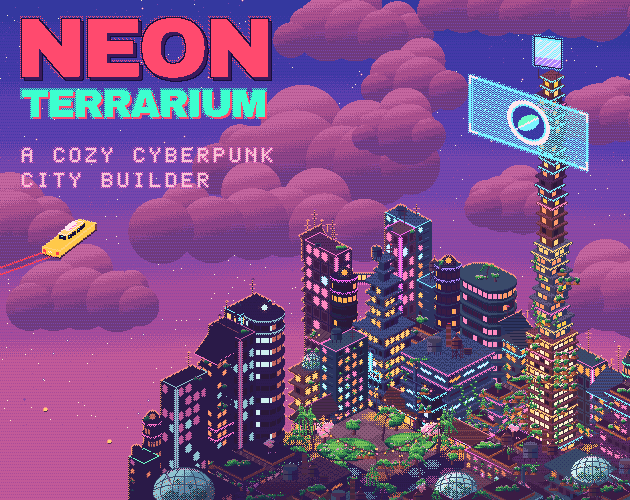
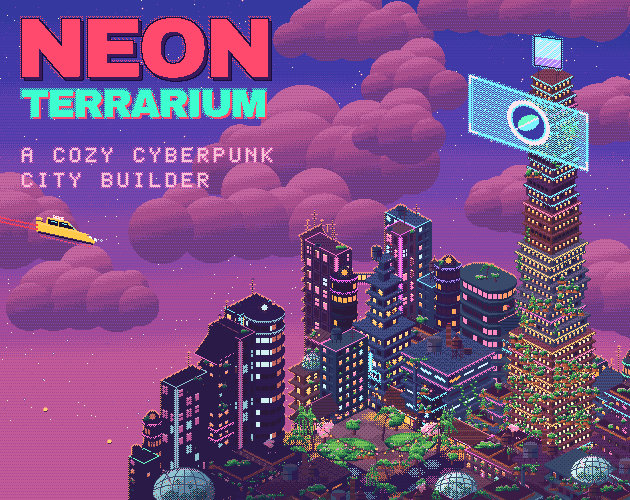
Cover art: chunky hero tower, crisp window panes, taxi diving into the city
Claude-Session: https://claude.ai/code/session_01F4MPX99podf2NwUC3T9owt

diff --git a/cover-art/cover.px.js b/cover-art/cover.px.js
@@ -21,6 +21,8 @@ const PAL = {
   T: "#a85a5a", U: "#7a3e48", m: "#4a2a50",
   // warm dusky stone for plazas and paths: lit, mid, shade
   "*": "#8a5a78", "(": "#64405c", ")": "#3e2840",
+  // window pane highlights: warm cream, cool pale cyan; headlights
+  ":": "#ffe6b0", ";": "#c8f4ff", "<": "#e8fbff",
   // glass: pale cyan-white lit, mid, shade, frame, pink sky reflection
   "$": "#cfeff0", "-": "#8fc4d0", "+": "#5a8aa8", "=": "#3a4a6a", "[": "#e8a0c8",
   // homes at dusk: peach, honey, soft pink, cool white-blue, shop gold; unlit deep plum
@@ -179,7 +181,7 @@ const nearestKey = (r, g, b) => {
 const levelFor = (yBase) => (yBase >= 400 ? 0 : Math.round(20 * (0.15 + 0.1 * clamp((400 - yBase) / 80, 0, 1))))
 const darkFor = (cx, yBase) => Math.round(clamp((380 - cx) / 170, 0, 1) * clamp((yBase - 350) / 100, 0, 1) * 0.55 * 20)
 const tintCache = new Map()
-const LIGHTKEYS = new Set("yhzvYnHMVNL$7-[+=")
+const LIGHTKEYS = new Set("yhzvYnHMVNL$7-[+=:;<")
 const tintKey = (k, hz, dk, wm) => {
   if (LIGHTKEYS.has(k)) { hz = Math.round(hz * 0.3); dk = Math.round(dk * 0.4); wm = 0 }
   if (!hz && !dk && !wm) return k
@@ -214,7 +216,7 @@ const WALLDIM = new Set("RruPpqSstKklDEe%^&fijTUm")
 const FK = (x, y, k) => { const i = y * W + x; const kk = tintKey(k, DEPTH[i], Math.min(20, DARK[i] + (WALLDIM.has(k) ? DIMW : 0)), WARM[i]); return CITY[i] ? grounded(x, y, kk) : kk }
 
 // ---------------------------------------------------------------- glow
-const EMIT = new Set("yhzvYVNHMnL$-")
+const EMIT = new Set("yhzvYVNHMnL$-:;<")
 const glowAround = (pts, k, reach = 2, sink) => {
   const set = new Set(pts.map(([x, y]) => x + y * W))
   for (const [x, y] of pts) for (let dy = -reach; dy <= reach; dy++) for (let dx = -reach; dx <= reach; dx++) {
@@ -281,7 +283,7 @@ const FAMS = {
 const FAMMAIN = ["rose", "plum", "peach", "terra", "rose", "plum", "terra", "peach", "mauve"]
 const ACCENTS = ["H", "H", "H", "H", "M", "M", "n", "n", "n", "V", "N"]
 const WCOLS = ["L", "L", "h", "h", "y", "y", "z", "z", "v", "v"]      // six in ten warm
-const WALLSET = new Set("RruPpqSstKklDEeTUmfijAB")
+const WALLSET = new Set("RruPpqSstKklDEeTUmfijAB%^&")
 const HALO = { L: "y", h: "L", y: "y", z: "H", v: "n", Y: "L" }
 const HALO2 = { L: "T", h: "T", y: "T", z: "R", v: "K", Y: "T" }
 const HALO3 = { L: "U", h: "U", y: "U", z: "r", v: "k", Y: "U" }
@@ -592,10 +594,23 @@ const addWallSign = (side, m, kind, u0, r0, col, id, seed, wk) => {
 }
 
 // ---------------------------------------------------------------- windows with a soft halo
+// one window pane, (cu, cr) counted from its top-left corner: a dark recess on the top and left, a lighter top row of glass,
+// sometimes a dark mullion, a curtain, a plant pot or a faint reflection; v is a hash that picks the variety
+const paneAt = (cu, cr, pw, wh, on, lit, v) => {
+  if (cu === 0 || cr === 0) return "A"
+  const pot = v >= 0.28 && v < 0.36
+  if (pot && cu === 1 && cr === wh - 1) return "!"
+  if (pot && cu === 1 && cr === wh - 2) return "o"
+  if (!lit) return v < 0.12 && cu === pw - 2 && cr === 2 ? "l" : "w"
+  const big = wh >= 6
+  if (big && ((v >= 0.5 && v < 0.75 && cr === (wh + 1) >> 1) || (v >= 0.75 && (cr === (wh + 1) >> 1 || cu === (pw + 1) >> 1)))) return "A"
+  if (v >= 0.12 && v < 0.24 && cu <= pw >> 1 && cr > 1) return "@"
+  return cr === 1 ? (on === "v" || on === "n" ? ";" : ":") : on
+}
 let curWins = []
 const haloPass = () => {
   for (const rec of curWins) {
-    if (!rec.halo) continue
+    if (!rec.halo || !rec.pts.length || (rec.pts[0][0] * 7 + rec.pts[0][1] * 13) % 3) continue
     const hk = HALO[rec.on] || "T"
     const P = new Set(rec.pts.map((p) => p[0] + p[1] * W))
     const seen = new Set()
@@ -607,25 +622,7 @@ const haloPass = () => {
       if (!WALLSET.has(get(nx, ny)) || ((nx + ny) & 1)) continue
       ring.push([nx, ny, hk, get(nx, ny)])
     }
-    // a second and a third, fainter ring further out
-    const R1 = new Set(ring.map((q) => q[0] + q[1] * W))
-    const hk2 = HALO2[rec.on] || "U", hk3 = HALO3[rec.on] || "m", ring2 = [], ring3 = []
-    const R2 = new Set()
-    for (const q of ring) for (const [dx, dy] of [[1, 0], [-1, 0], [0, 1], [0, -1], [1, 1], [-1, -1], [1, -1], [-1, 1]]) {
-      const nx = q[0] + dx, ny = q[1] + dy, ni = nx + ny * W
-      if (!inb(nx, ny) || P.has(ni) || R1.has(ni) || seen.has(ni)) continue
-      seen.add(ni); R2.add(ni)
-      if (!WALLSET.has(get(nx, ny)) || (nx & 1) || (ny & 1)) continue
-      ring2.push([nx, ny, hk2, get(nx, ny)])
-    }
-    for (const q of ring2) for (const [dx, dy] of [[2, 0], [-2, 0], [0, 2], [0, -2]]) {
-      const nx = q[0] + dx, ny = q[1] + dy, ni = nx + ny * W
-      if (!inb(nx, ny) || P.has(ni) || R1.has(ni) || seen.has(ni)) continue
-      seen.add(ni)
-      if (!WALLSET.has(get(nx, ny)) || ((nx + 2 * ny) % 5)) continue
-      ring3.push([nx, ny, hk3, get(nx, ny)])
-    }
-    for (const q of [...ring, ...ring2, ...ring3]) { rec.pts.push(q); if (rec.lit) put(q[0], q[1], q[2]) }
+    for (const q of ring) { rec.pts.push(q); if (rec.lit) put(q[0], q[1], q[2]) }
   }
   curWins = []
 }
@@ -654,7 +651,8 @@ function stack(o) {
       const base = side === "L" ? fam.L : fam.R
       if (o.groundWall && f === 0) { const k = o.groundWall(side, u, r, wW, h, x, y); if (k) return k }
       if (r === 0) return side === "L" ? fam.R : "A"                          // shadow under the plate above
-      if (r < wy0 || r >= wy0 + wh || u < 2) return base
+      const pane = wh >= 4 && pw <= 6
+      if (r < wy0 || r > wy0 + wh || (r === wy0 + wh && !pane) || u < 2) return base
       const rel = (u - 2) % per
       if (rel >= pw) return base
       const u0 = u - rel
@@ -667,10 +665,14 @@ function stack(o) {
         const lit = o.bright ? (fq < (o.litP ?? 0.85) && q < 0.92) : fq < 0.2 ? q < 0.1 : fq < 0.68 ? q < 0.94 : (col % 5 !== 4 && q < 0.55)      // dark floors, glowing bands, mixed floors
         const on = o.bright ? (o.glass === "white" ? (t < 0.3 ? "h" : "F") : t < 0.12 ? "Y" : t < 0.55 ? "h" : "y") : (t < 0.86 ? wcol : ["L", "h", "y", "v"][Math.floor(t * 40) % 4])
         rec = newWin(lit, on, !o.bright)
+        rec.v = ih(id * 17 + col, f * 5 + (side === "L" ? 3 : 4), 99)
         panes.set(pk, rec)
       }
-      rec.pts.push([x, y, rec.on, "w"])
-      return rec.lit ? rec.on : "w"
+      if (!pane) { rec.pts.push([x, y, rec.on, "w"]); return rec.lit ? rec.on : "w" }
+      if (r === wy0 + wh) return rec.lit ? (side === "L" ? fam.top : fam.L) : base      // a lighter sill under a lit window
+      const on = paneAt(rel, r - wy0, pw, wh, rec.on, true, rec.v), off = paneAt(rel, r - wy0, pw, wh, rec.on, false, rec.v)
+      if (on !== "A") rec.pts.push([x, y, on, off])
+      return rec.lit ? on : off
     }
     isoBox(A + ins, B + ins, Wd - 2 * ins, Dd - 2 * ins, hb, z, { L: mk("L"), R: mk("R") })
     const trimOn = o.trimAll ? (last ? true : ih(id, f, 9) < (o.trimP ?? 0.4)) : (o.trimB && f >= n - 2)
@@ -1185,7 +1187,7 @@ const drawBuilding = (bd) => {
     for (let k = 0; k < 3; k++) {
       const tw = Math.min(0.4 * k, (w - 0.7) / 2), td = Math.min(0.4 * k, (d - 0.7) / 2)
       const ma = a0 + tw, mb = b0 + td, mw = w - 2 * tw, md = d - 2 * td
-      st = stack({ a: ma, b: mb, w: mw, d: md, z0: z, n: ns[k], fh, fam, id: id * 3 + k, trims, pw: 3, pier: 2, wcol, trimB: trimB && k === 2, plantP: 0.5, vineP: 0.2, far })
+      st = stack({ a: ma, b: mb, w: mw, d: md, z0: z, n: ns[k], fh, fam, id: id * 3 + k, trims, pw: 4, pier: 2, wcol, trimB: trimB && k === 2, plantP: 0.5, vineP: 0.2, far })
       mods.push({ a: ma, b: mb, w: mw, d: md, z, h: ns[k] * fh, n: ns[k], fh })
       z = st.z
     }
@@ -1210,16 +1212,20 @@ const drawBuilding = (bd) => {
       if (r % fh === 0 && r > 0) return side === "L" ? lam.R : "l"
       if (u % 8 === 0) return side === "L" ? lam.R : "l"
       const col = Math.floor(u / 8), f = Math.floor(r / fh), rr = r % fh
-      if (u % 8 >= 2 && u % 8 <= 6 && rr >= 3 && rr <= 9 && u > 2 && u < wW - 3) {
+      if (u % 8 >= 2 && u % 8 <= 6 && rr >= 3 && rr <= 10 && u > 2 && u < wW - 3) {
         const pk = side + f + "_" + col
         let rec = panes.get(pk)
         if (!rec) {
           const q = ih(id * 131 + col, f * 7 + (side === "L" ? 1 : 2), 17), t = ih(id + col, f, 5)
           rec = newWin(ih(id, f, 3) < 0.28 ? q < 0.1 : ih(id, f, 3) < 0.6 ? q < 0.93 : (q < 0.5 && col % 4 !== 3), t < 0.86 ? wcol : "v", true)
+          rec.v = ih(id * 17 + col, f * 5 + (side === "L" ? 3 : 4), 99)
           panes.set(pk, rec)
         }
-        rec.pts.push([x, y, rec.on, "w"])
-        return rec.lit ? rec.on : "w"
+        const cu = u % 8 - 2, cr = rr - 3
+        if (cr === 8) return rec.lit ? lam.top : base
+        const on = paneAt(cu, cr, 5, 8, rec.on, true, rec.v), off = paneAt(cu, cr, 5, 8, rec.on, false, rec.v)
+        if (on !== "A") rec.pts.push([x, y, on, off])
+        return rec.lit ? on : off
       }
       const sheen = (1 - r / hh) * 0.55 + (side === "L" ? (1 - u / wW) * 0.25 : 0)
       return bay(x, y) < sheen * 0.7 ? (side === "L" ? lam.top : lam.L) : base
@@ -1340,16 +1346,18 @@ const drawBuilding = (bd) => {
       if (r === 0) return side === "L" ? fam.top : fam.L
       if (u < 2 || u >= wW - 3 || col < 0) return base
       if (fr === 0) return side === "L" ? fam.R : "A"
-      if (cu >= 1 && cu <= 3 && fr >= 2 && fr <= 5 && u < wW - 6) {
+      if (cu >= 0 && cu <= 3 && fr >= 1 && fr <= 5 && u < wW - 6) {
         const pk = side + f + "_" + col
         let rec = panes.get(pk)
         if (!rec) {
           const q = ih(id * 131 + col, f * 7 + (side === "L" ? 1 : 2), 17)
           rec = newWin(q < 0.8, GW[Math.floor(ih(id + col * 3, f, 5) * GW.length)], true)
+          rec.v = ih(id * 17 + col, f * 5 + (side === "L" ? 3 : 4), 99)
           panes.set(pk, rec)
         }
-        rec.pts.push([x, y, rec.on, "w"])
-        return rec.lit ? rec.on : "w"
+        const on = paneAt(cu, fr - 1, 4, 5, rec.on, true, rec.v), off = paneAt(cu, fr - 1, 4, 5, rec.on, false, rec.v)
+        if (on !== "A") rec.pts.push([x, y, on, off])
+        return rec.lit ? on : off
       }
       if (fr === 6 && cu <= 4) return fam.top
       return base
@@ -1380,7 +1388,7 @@ const drawBuilding = (bd) => {
     const { a: ma, b: mb, w: mw, d: md } = bd.fp
     const fh = 10, hh = 14 + (id % 4) * 3
     const n = Math.max(5, Math.round((H0 - hh) / fh))
-    const st = stack({ a: ma, b: mb, w: mw, d: md, n, fh, fam, id, trims, pw: 3, pier: 2, wcol, trimAll: true, trimP: 0.25, plantP: 0.35, vineP: 0.15, far, ins: 0.12 })
+    const st = stack({ a: ma, b: mb, w: mw, d: md, n, fh, fam, id, trims, pw: 4, pier: 2, wcol, trimAll: true, trimP: 0.25, plantP: 0.35, vineP: 0.15, far, ins: 0.12 })
     mods.push({ a: ma, b: mb, w: mw, d: md, z: 0, h: n * fh })
     const axis = id % 2 ? "a" : "b"
     slantRoof(ma, mb, mw, md, st.z, hh, fam, axis, accent)
@@ -1432,16 +1440,16 @@ const drawTower = () => {
   ISO = 8
   const F = FAMS
   // a stepped, wide base with plants
-  stack({ a: 90, b: 21, w: 4, d: 4, n: 3, fh: 8, plate: 2, ins: 0.22, fam: F.rose, id: 9901, bright: true, trimAll: true, trims: ["H", "n"], pw: 6, pier: 1, wh: 4, wy0: 1, litP: 0.8, plantP: 0.7 })
+  stack({ a: 88.75, b: 19.75, w: 6.5, d: 6.5, n: 3, fh: 8, plate: 2, ins: 0.22, fam: F.rose, id: 9901, bright: true, trimAll: true, trims: ["H", "n"], pw: 3, pier: 1, wh: 4, wy0: 1, litP: 0.8, plantP: 0.7 })
   // the white-lit body, windows in pale rows
-  stack({ a: 90.3, b: 21.3, w: 3.4, d: 3.4, z0: 24, n: 13, fh: 8, plate: 2, ins: 0.22, fam: F.terra, id: 9902, bright: true, trimAll: true, trims: ["h", "z"], pw: 4, pier: 1, wh: 4, wy0: 1, litP: 0.95, plantP: 0.55, glass: "white" })
+  stack({ a: 89.25, b: 20.25, w: 5.5, d: 5.5, z0: 24, n: 13, fh: 8, plate: 2, ins: 0.22, fam: F.terra, id: 9902, bright: true, trimAll: true, trims: ["h", "z"], pw: 3, pier: 1, wh: 4, wy0: 1, litP: 0.95, plantP: 0.55, glass: "white" })
   // a twisting stack of thick plates
-  stack({ a: 90.75, b: 21.75, w: 2.5, d: 2.5, z0: 128, n: 10, fh: 9, plate: 2, ins: 0.22, fam: F.mauve, id: 9903, bright: true, trimAll: true, trims: ["h", "H"], pw: 4, pier: 1, wh: 5, wy0: 1, litP: 0.7, plantP: 0.3, twist: 3 })
+  stack({ a: 89.75, b: 20.75, w: 4.5, d: 4.5, z0: 128, n: 10, fh: 9, plate: 2, ins: 0.22, fam: F.mauve, id: 9903, bright: true, trimAll: true, trims: ["h", "H"], pw: 3, pier: 1, wh: 4, wy0: 1, litP: 0.7, plantP: 0.3, twist: 3 })
   // a warm peach block with a lit crown line
-  stack({ a: 91, b: 22, w: 2, d: 2, z0: 218, n: 4, fh: 10, plate: 2, ins: 0.22, fam: F.peach, id: 9904, bright: true, trimAll: true, trims: ["z", "H"], pw: 4, pier: 1, wh: 6, wy0: 1, litP: 0.85, plantP: 0.2 })
+  stack({ a: 90.1, b: 21.1, w: 3.8, d: 3.8, z0: 218, n: 4, fh: 10, plate: 2, ins: 0.22, fam: F.peach, id: 9904, bright: true, trimAll: true, trims: ["z", "H"], pw: 3, pier: 1, wh: 4, wy0: 1, litP: 0.85, plantP: 0.2 })
   // a dark stack with cyan and pink trims
-  stack({ a: 91, b: 22, w: 2, d: 2, z0: 258, n: 12, fh: 9, plate: 2, ins: 0.22, fam: F.plum, id: 9905, bright: true, trimAll: true, trims: ["n", "H"], pw: 4, pier: 1, wh: 5, wy0: 1, litP: 0.6, trimP: 0.7, plantP: 0.15, twist: 2 })
-  const st = stack({ a: 91.2, b: 22.2, w: 1.6, d: 1.6, z0: 366, n: 2, fh: 9, plate: 2, ins: 0.22, fam: F.peach, id: 9906, bright: true, trimAll: true, trims: ["n", "H"], pw: 4, pier: 1, wh: 5, wy0: 1, litP: 0.95 })
+  stack({ a: 90.3, b: 21.3, w: 3.4, d: 3.4, z0: 258, n: 12, fh: 9, plate: 2, ins: 0.22, fam: F.plum, id: 9905, bright: true, trimAll: true, trims: ["n", "H"], pw: 3, pier: 1, wh: 4, wy0: 1, litP: 0.6, trimP: 0.7, plantP: 0.15, twist: 2 })
+  const st = stack({ a: 90.6, b: 21.6, w: 2.8, d: 2.8, z0: 366, n: 2, fh: 9, plate: 2, ins: 0.22, fam: F.peach, id: 9906, bright: true, trimAll: true, trims: ["n", "H"], pw: 3, pier: 1, wh: 4, wy0: 1, litP: 0.95 })
   const [cx, cy] = st.roofBox.pt(92, 23)
   // crown: an antenna with a red tip, and a small screen on a frame
   vlineK(cx + 6, cy - 16, 16, "E")
@@ -1771,51 +1779,46 @@ const drawHolo = (f) => {
 
 const drawTaxi = (f) => {
   const bob = Math.round(Math.sin((2 * Math.PI * f) / FRAMES))
-  ISO = 8      // the taxi keeps the finer grid
-  // draw it level into a scratch buffer, then shear it so it climbs toward the city
+  // drawn level in profile, nose to the right, into a scratch buffer; then sheared so the nose dives toward the city
   const saved = fb
   fb = new Uint8Array(W * H).fill(255)
-  const a0 = 20, b0 = 10, z0 = 5
-  const lights = []
-  // skids
-  isoBox(a0 + 0.2, b0 + 0.4, 0.45, 3.3, 3, 2, { L: () => "w", R: () => "w", T: () => "w" })
-  isoBox(a0 + 1.35, b0 + 0.4, 0.45, 3.3, 3, 2, { L: () => "w", R: () => "w", T: () => "w" })
-  // body: the short rear face looks down-left, the long side down-right
-  const body = isoBox(a0, b0, 2.2, 4.6, 8, z0, {
-    L: (u, r, wW, h) => {
-      if (r === h - 1) return "w"
-      if (r >= 2 && r <= 4 && (u >= 1 && u <= 3 || u >= wW - 4 && u <= wW - 2)) { lights.push([u, r]); return "x" }
-      if (r === 3 && u >= 6 && u <= 9) return "W"
-      return u === 0 ? "h" : "Y"
-    },
-    R: (u, r, wW, h) => (r === h - 1 ? "w" : r === 0 ? "h" : u > wW - 3 ? "U" : r > h - 3 ? "U" : "Y"),
-    T: (x, y, i) => ((i.low || i.up) ? "h" : "Y"),
-  })
-  // cabin and roof sign
-  isoBox(a0 + 0.45, b0 + 0.9, 1.1, 2.2, 6, z0 + 7, {
-    L: (u, r, wW, h) => (r === 0 || r === h - 1 || u < 1 || u > wW - 2 ? "Y" : (r === 2 && u > 2 && u < 5 ? "n" : "I")),
-    R: (u, r, wW, h) => (r === 0 || r === h - 1 || u % 9 === 0 ? "Y" : (r === 2 && u % 9 === 2 ? "n" : "I")),
-    T: (x, y, i) => ((i.low || i.up) ? "W" : "h"),
-  })
-  isoBox(a0 + 0.7, b0 + 1.5, 0.6, 1.0, 3, z0 + 13, { L: () => "W", R: (u, r) => (r === 1 ? "H" : "W"), T: () => "W" })
-  // collect the sprite, shear it, place it
+  const K = 1.12, X = 20, Y = 20
+  const pt = (x, y) => [Math.round(X + x * K), Math.round(Y + y * K)]
+  const poly = (pts, fn) => fillPoly(pts.map(([x, y]) => pt(x, y)), fn)
+  // body: squared-off tail, cabin toward the back, sloped windshield, a hood that tapers and drops to the nose
+  poly([[0, 8], [9, 8], [10, 2], [29, 2], [37, 8], [45, 10], [52, 13], [54, 15], [51, 17], [2, 17], [0, 16]], (x, y) => (y < pt(0, 3)[1] ? "h" : "Y"))
+  poly([[0, 8], [0, 4], [5, 4], [6, 8]], () => "Y")                        // rear spoiler
+  lineK(...pt(0, 4), ...pt(5, 4), "h"); lineK(...pt(0, 6), ...pt(5, 6), "E")
+  poly([[11, 3.5], [28, 3.5], [35, 8], [11, 8]], (x, y) => "I")             // cabin glass
+  lineK(...pt(20, 3.5), ...pt(20, 8), "Y")                                // door pillar
+  lineK(...pt(13, 4.5), ...pt(18, 4.5), "n"); lineK(...pt(23, 4.5), ...pt(27, 4.5), "n")
+  lineK(...pt(30, 4), ...pt(34, 7.5), "n")                                // windshield glint
+  lineK(...pt(1, 9), ...pt(46, 9), "h")                                   // beltline
+  lineK(...pt(2, 16), ...pt(50, 16), "E")                                 // darker belly
+  lineK(...pt(2, 17), ...pt(50, 17), "I")
+  // roof sign
+  const [sx, sy] = pt(15, -1)
+  rectK(sx, sy, 11, 4, "W"); for (let i = 1; i < 11; i += 3) put(sx + i, sy + 1, "x"); hlineK(sx, sy + 3, 11, "h")
+  // tail lights on the squared-off back, headlights on the nose
+  const tail = [pt(0, 10), pt(0, 13)]
+  for (const [tx, ty] of tail) rectK(tx, ty, 2, 2, "x")
+  const head = [pt(52, 12), pt(47, 11)]
+  rectK(head[0][0], head[0][1], 3, 3, "<"); rectK(head[1][0], head[1][1], 3, 2, "<")
   const sc = fb
   fb = saved
   let minx = 1e9, maxx = -1, miny = 1e9, maxy = -1
   for (let y = 0; y < H; y++) for (let x = 0; x < W; x++) if (sc[y * W + x] !== 255) { minx = Math.min(minx, x); maxx = Math.max(maxx, x); miny = Math.min(miny, y); maxy = Math.max(maxy, y) }
-  const SL = 0.27, X0 = 42, Y0top = 226
-  const shear = (x) => Math.floor((x - minx) * SL)
-  const dest = (x, y) => [X0 + x - minx, Y0top + (y - miny) - shear(x) + (shear(maxx) ) + bob - 12]
-  // the tail-light trails run back off the left edge, thin and red, shimmering every other frame pair
+  const SL = 0.22, X0 = 36, Y0 = 212
+  const dest = (x, y) => [X0 + x - minx, Y0 + (y - miny) + Math.floor((x - minx) * SL) + bob]
   const ph = f >> 1
-  const lamps = []
-  for (const [u, r] of [[2, 3], [13, 3]]) { const [x, y] = body.L(u, r); lamps.push(dest(x, y)) }
-  for (const [lx, ly] of lamps) {
+  // trails start at the two tail lights and stream up and back to the left edge
+  for (const [tx, ty] of tail) {
+    const [lx, ly] = dest(tx, ty + 1)
     const pts = []
     for (let i = 0; i < 120 && lx - i >= 0; i++) {
       if (i > 55 && i % 3 === 0) continue
       if (i > 80 && i % 2 === 0) continue
-      pts.push([lx - 1 - i, Math.round(ly + 2 + i * 0.36)])
+      pts.push([lx - 1 - i, Math.round(ly - i * SL)])
     }
     for (const [xx, yy] of pts) put(xx, yy, "x")
     for (const [xx, yy] of pts) { if (((xx + ph) & 1) === 0) put(xx, yy - 1, "C"); if (((xx + ph) & 3) === 1) put(xx, yy + 1, "5") }
@@ -1826,9 +1829,10 @@ const drawTaxi = (f) => {
     const [dx, dy] = dest(x, y)
     if (inb(dx, dy)) fb[dy * W + dx] = v
   }
-  // hover glow under the skids
-  for (const [lx, ly] of lamps) for (let k = -2; k <= 2; k++) if (bay(lx + k, ly) < 0.6) put(lx + k - 1, ly + 3, "C")
-  ISO = 16
+  // hover glow under the belly, and a short soft beam ahead of the headlights
+  for (let x = minx + 4; x < maxx - 4; x += 1) { const [dx, dy] = dest(x, maxy + 2); if (((x + ph) & 3) < 3) { put(dx, dy + 1, "C"); if ((x & 1) === 0) put(dx, dy + 2, "5") } }
+  const [hx, hy] = dest(head[0][0] + 2, head[0][1])
+  for (let i = 1; i <= 6; i++) for (let j = -1; j <= 1; j++) if (((i + j) & 1) === 0 && Math.abs(j) <= (i > 3 ? 1 : 0) + (i > 0 ? 0 : 0)) put(hx + i, hy + j + Math.round(i * SL), i > 3 ? "v" : "<")
 }
 const wlast = (arr) => arr.length ? arr[arr.length - 1] : [13, 3]
 
